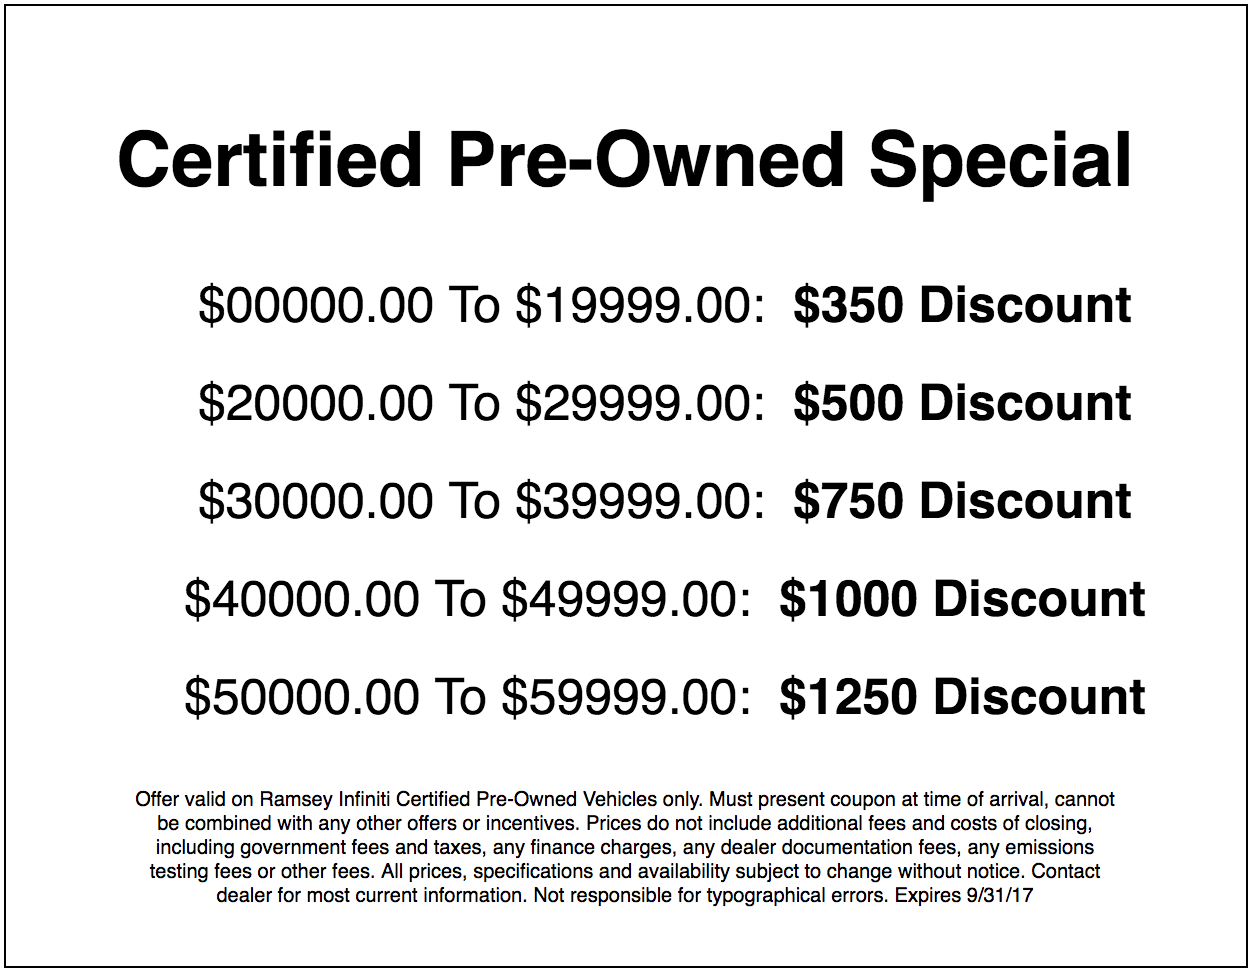
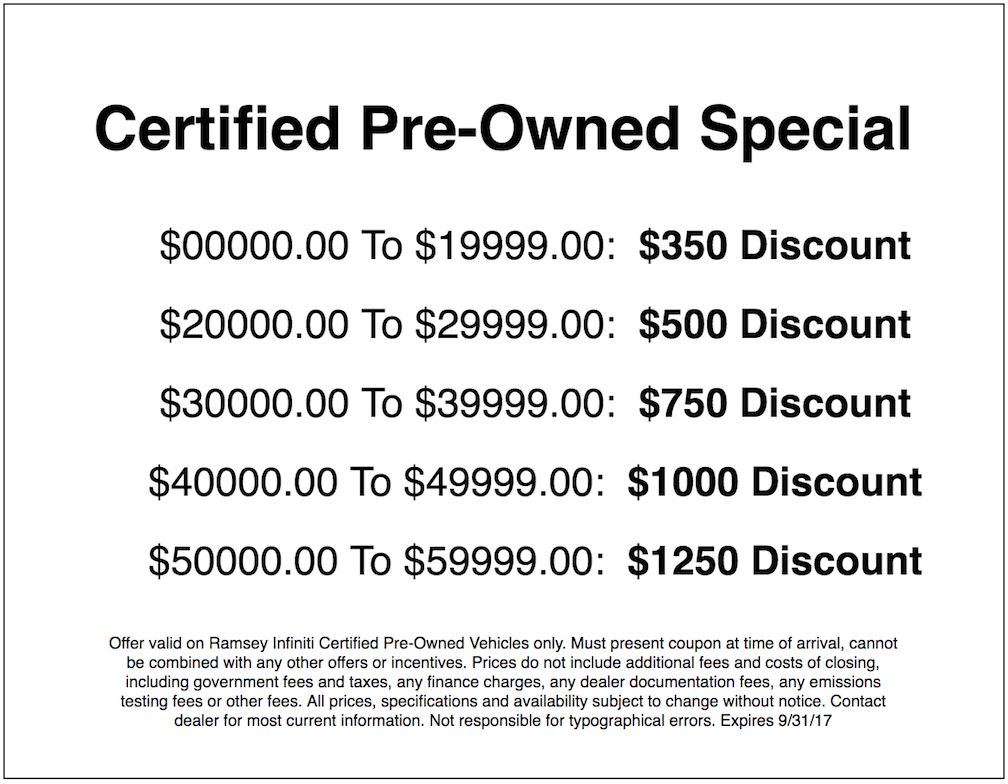
added oct

diff --git a/infin.html b/infin.html
@@ -24,13 +24,13 @@
     #mobInfo {
       display: none;
     }
-      /*#contentContainer {
-        font-family: Helvetica, sans-serif;
+      #contentContainer {
+        /*font-family: Helvetica, sans-serif;
         font-size: 25px;
         border: 1px solid #000000;
         padding: 30px;
-        width: 560px;
-      }*/
+        width: 560px;*/
+      }
       img {
         width: 560px;
       }
@@ -118,7 +118,7 @@
   </head>
   <body>
     <div id="contentContainer">
-      <img src="coupon-cpo-offer-sept-2017.png" />
+      <img src="coupon-cpo-offer-oct-2017.png" />
       <div id="mobInfo">
         <h1>Certified Pre-Owned Special</h1>
         <ul>
@@ -129,7 +129,7 @@
           <li>$50000.00 To $59999.00:&nbsp; <b>$1250 Discount</b></li>
         </ul>
 
-        <p id="disc">Offer valid on Ramsey Infiniti Certified Pre-Owned Vehicles only. Must present coupon at time of arrival, cannot be combined with any other offers or incentives. Prices do not include additional fees and costs of closing, including government fees and taxes, any finance charges, any dealer documentation fees, any emissions testing fees or other fees. All prices, specifications and availability subject to change without notice. Contact dealer for most current information. Not responsible for typographical errors. Expires 9/31/17</p>
+        <p id="disc">Offer valid on Ramsey Infiniti Certified Pre-Owned Vehicles only. Must present coupon at time of arrival, cannot be combined with any other offers or incentives. Prices do not include additional fees and costs of closing, including government fees and taxes, any finance charges, any dealer documentation fees, any emissions testing fees or other fees. All prices, specifications and availability subject to change without notice. Contact dealer for most current information. Not responsible for typographical errors. Expires 10/31/17</p>
       </div>
     </div>
     <br>
